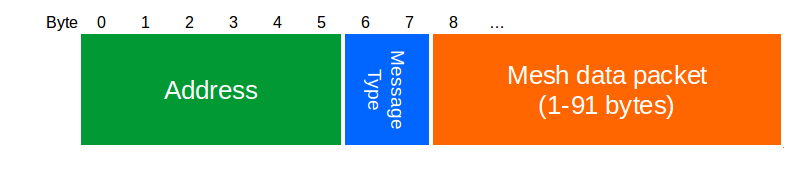
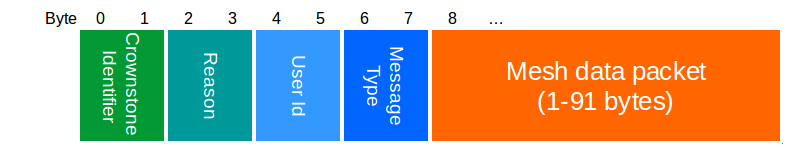
updated mesh payload packet

Changed region(s): [[0.0312, 0.0606, 0.9988, 0.8788], [0.6242, 0.3636, 0.9051, 0.5152], [0.6554, 0.5455, 0.8427, 0.697]]

diff --git a/PROTOCOL.md b/PROTOCOL.md
@@ -438,7 +438,9 @@ uint 16 | Length | 2 | Length of the data.
 
 Type | Name | Length | Description
 --- | --- | --- | ---
-uint 8 [] | Target address | 6 | Bluetooth address of the device at which this message is aimed at, all zero for any device.
+uint 16 | Target Crownstone ID | 2 | Crownstone Identifier of the device at which this message is aimed at, all 0 for any device.
+uint 16 | Reason | 2 | ...
+uint 16 | User ID | 2 | ...
 uint 16 | Type | 2 | Type of message, see table below.
 uint 8 [] | Payload | 0 to 91 | Payload data, depends on type.
 
